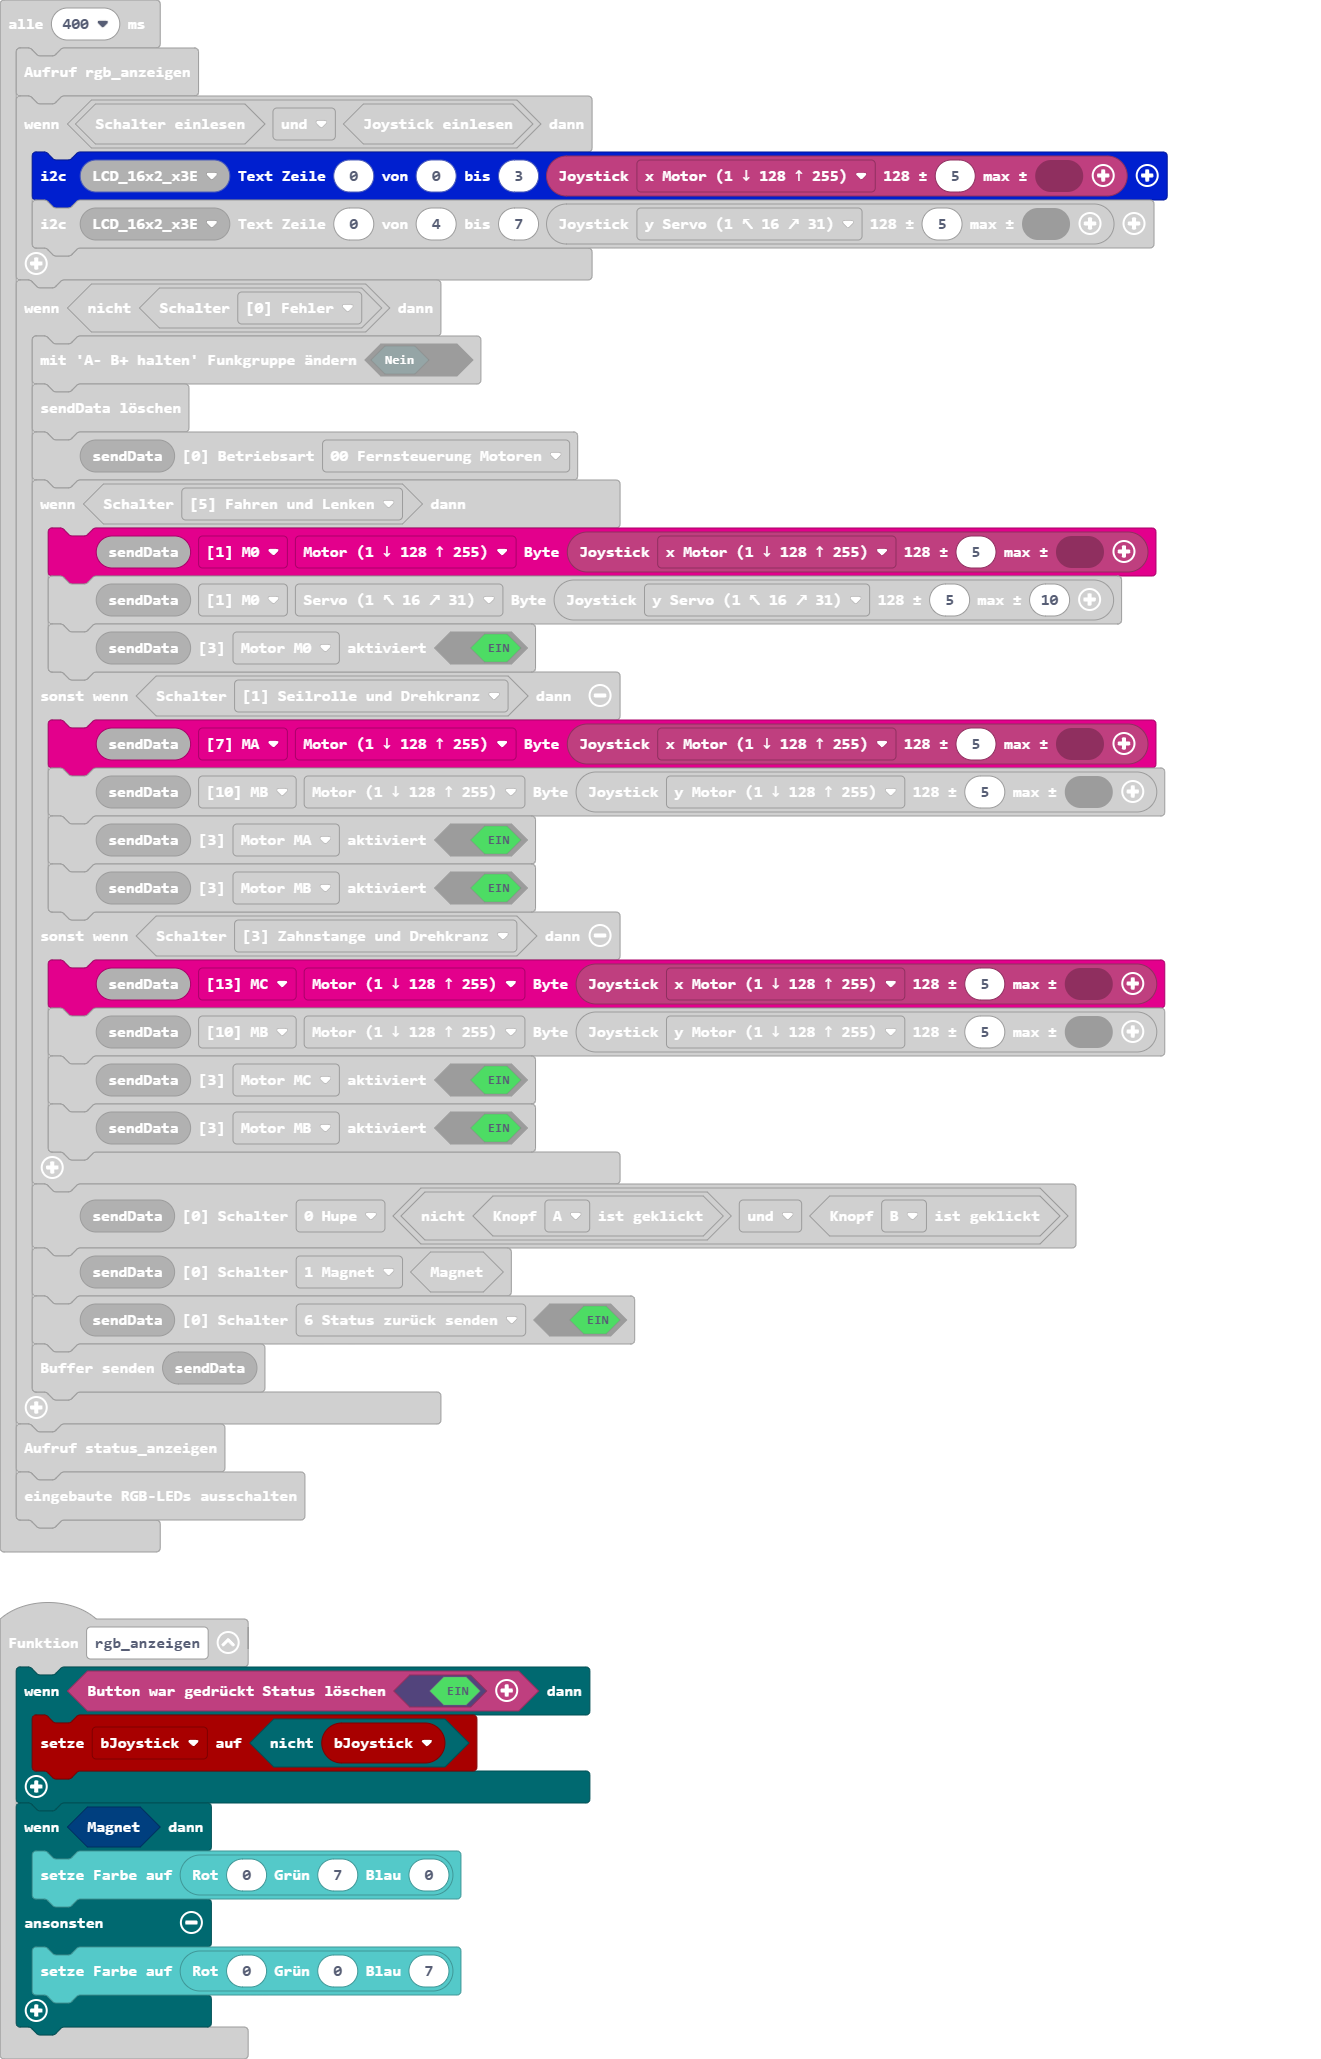
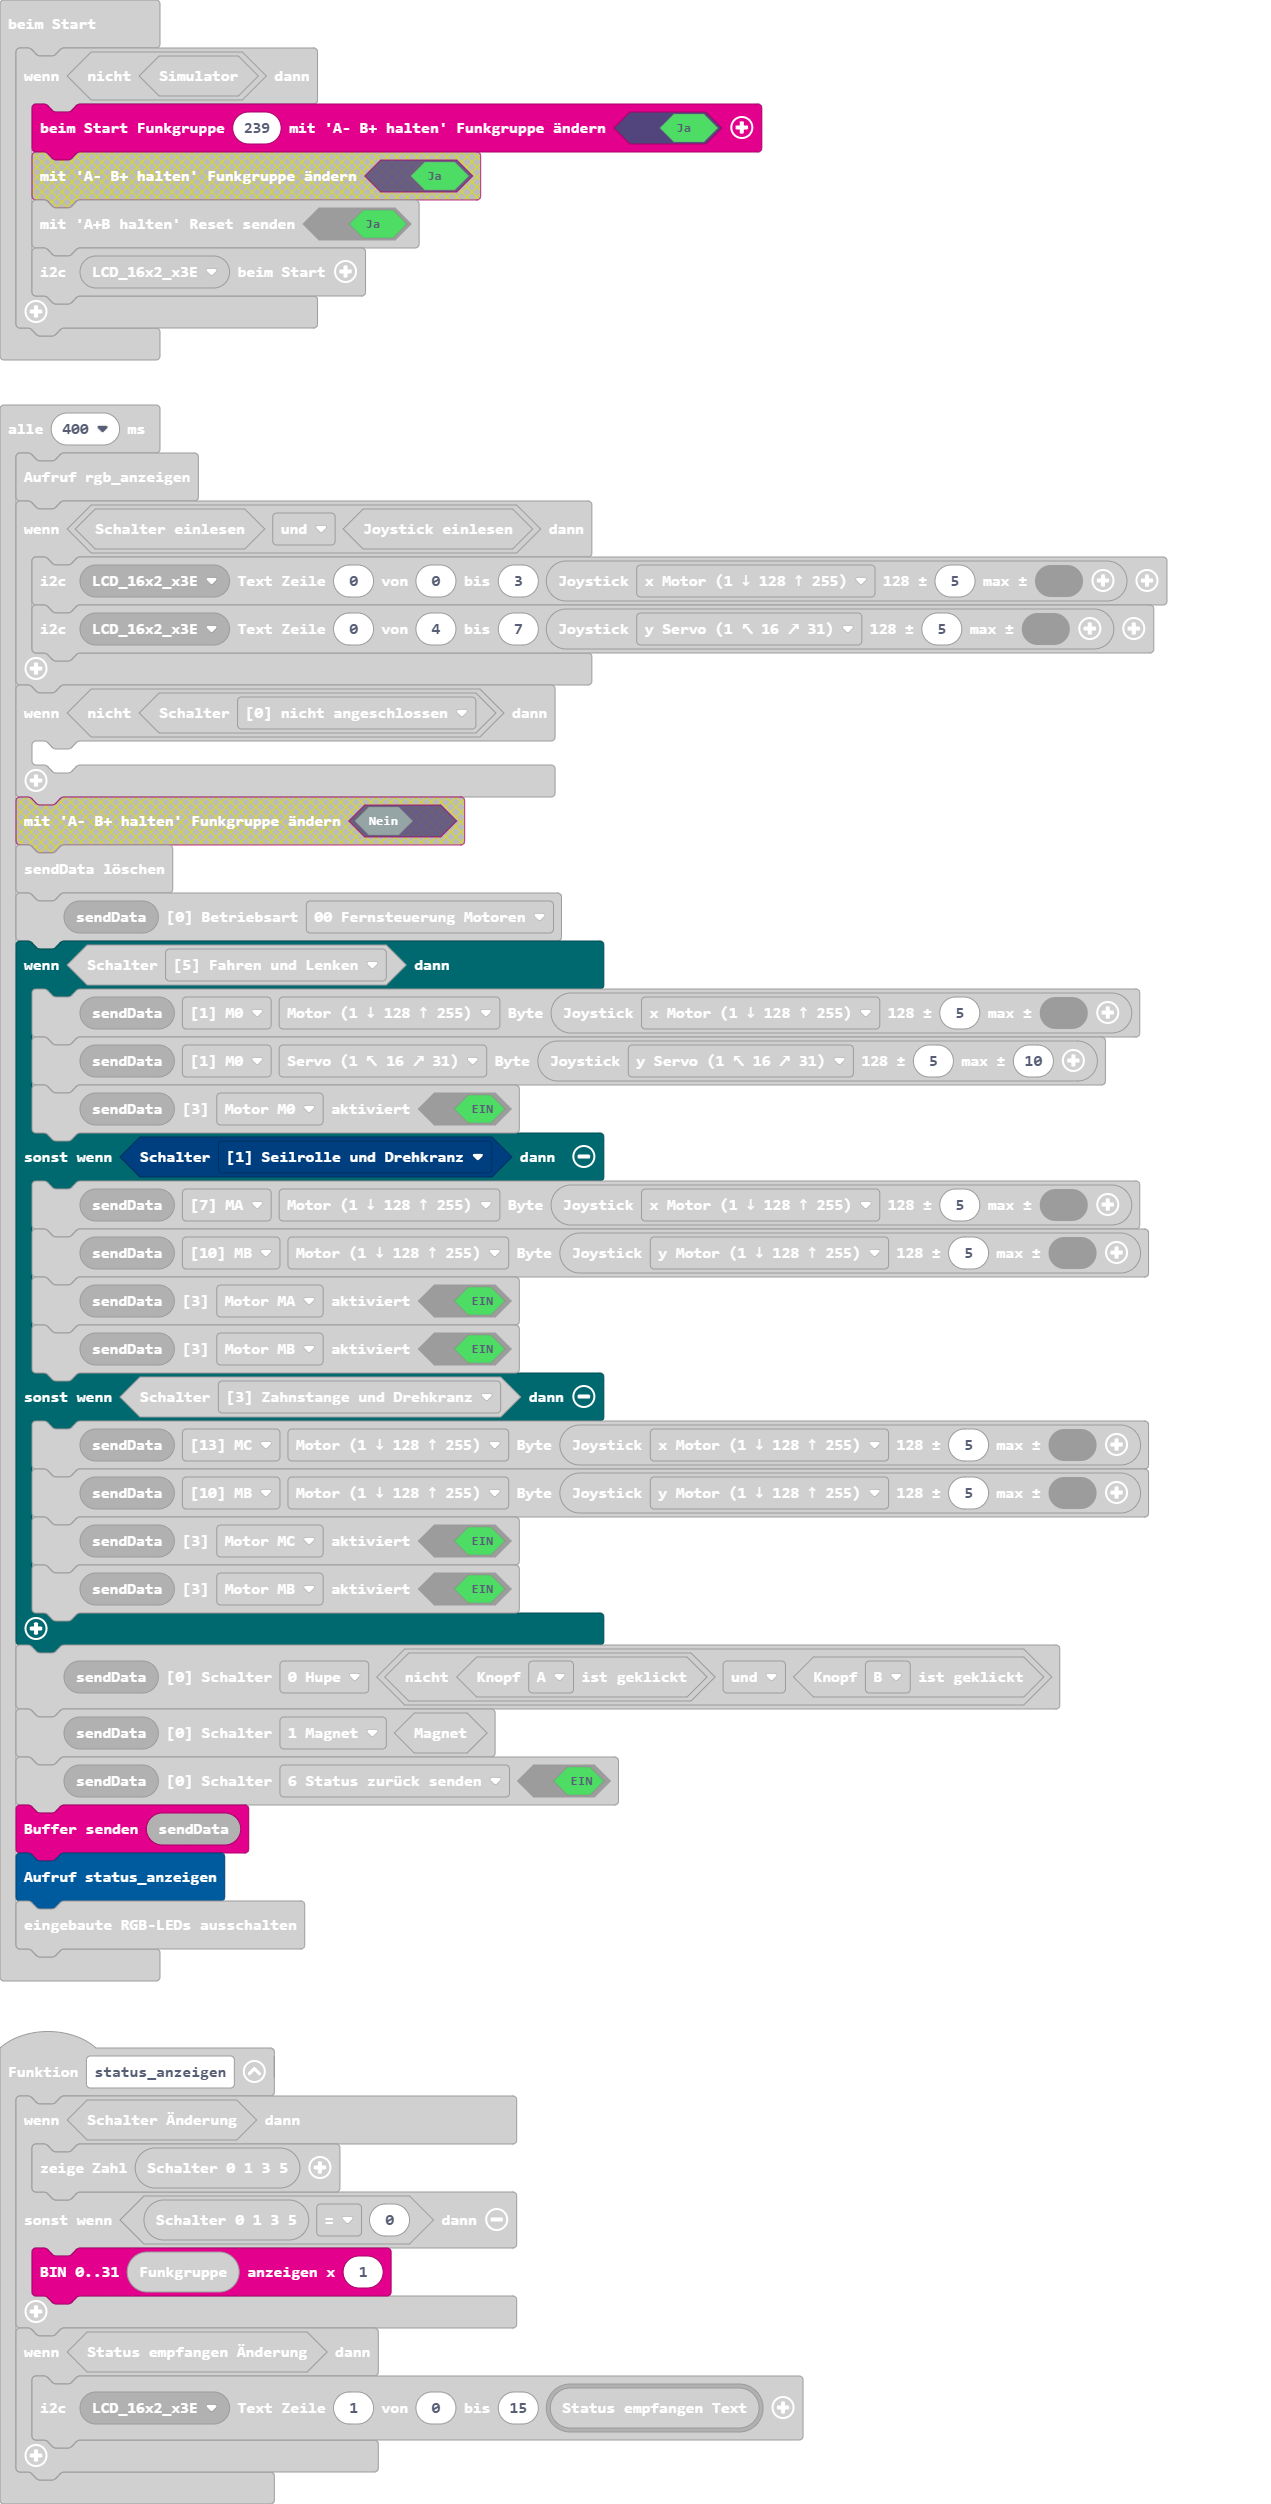
Aktualisiere pxt.json, main.blocks, main.ts

diff --git a/main.ts b/main.ts
@@ -2,7 +2,7 @@ function status_anzeigen () {
     if (radio.chSwitch()) {
         basic.showNumber(radio.getSwitch())
     } else if (radio.getSwitch() == 0) {
-        radio.plotBIN(radio.funkgruppe() - 160, 1)
+        radio.plotBIN(radio.funkgruppe(), 1)
     }
     if (radio.receivedStringChanged()) {
         lcd16x2rgb.writeText(lcd16x2rgb.lcd16x2_eADDR(lcd16x2rgb.eADDR_LCD.LCD_16x2_x3E), 1, 0, 15, lcd16x2rgb.lcd16x2_text(radio.receivedStringText()))
@@ -20,8 +20,7 @@ function rgb_anzeigen () {
 }
 let bJoystick = false
 if (!(radio.simulator())) {
-    radio.beimStart(239)
-    radio.enableButtonFunkgruppe(true)
+    radio.beimStart(239, true)
     radio.enableButtonSendReset(true)
     lcd16x2rgb.initLCD(lcd16x2rgb.lcd16x2_eADDR(lcd16x2rgb.eADDR_LCD.LCD_16x2_x3E))
 }
@@ -32,14 +31,13 @@ loops.everyInterval(400, function () {
         lcd16x2rgb.writeText(lcd16x2rgb.lcd16x2_eADDR(lcd16x2rgb.eADDR_LCD.LCD_16x2_x3E), 0, 4, 7, radio.joystickValue(radio.eJoystickValue.servo16, 5))
     }
     if (!(radio.isSwitch(radio.eStatus.fehler))) {
-        radio.enableButtonFunkgruppe(false)
         radio.fill_sendBuffer19()
         radio.setBetriebsart(radio.radio_sendBuffer19(), radio.e0Betriebsart.p0)
         if (radio.isSwitch(radio.eStatus.fahren)) {
             radio.setByte(radio.radio_sendBuffer19(), radio.eBufferPointer.m0, radio.eBufferOffset.b0_Motor, radio.joystickValue(radio.eJoystickValue.xmotor, 5))
             radio.setByte(radio.radio_sendBuffer19(), radio.eBufferPointer.m0, radio.eBufferOffset.b1_Servo, radio.joystickValue(radio.eJoystickValue.servo16, 5, 10))
             radio.setaktiviert(radio.radio_sendBuffer19(), radio.e3aktiviert.m0, true)
-        } else if (radio.isSwitch(radio.eStatus.drehen)) {
+        } else if (radio.isSwitch(radio.eStatus.seilrolle)) {
             radio.setByte(radio.radio_sendBuffer19(), radio.eBufferPointer.ma, radio.eBufferOffset.b0_Motor, radio.joystickValue(radio.eJoystickValue.xmotor, 5))
             radio.setByte(radio.radio_sendBuffer19(), radio.eBufferPointer.mb, radio.eBufferOffset.b0_Motor, radio.joystickValue(radio.eJoystickValue.ymotor, 5))
             radio.setaktiviert(radio.radio_sendBuffer19(), radio.e3aktiviert.ma, true)
